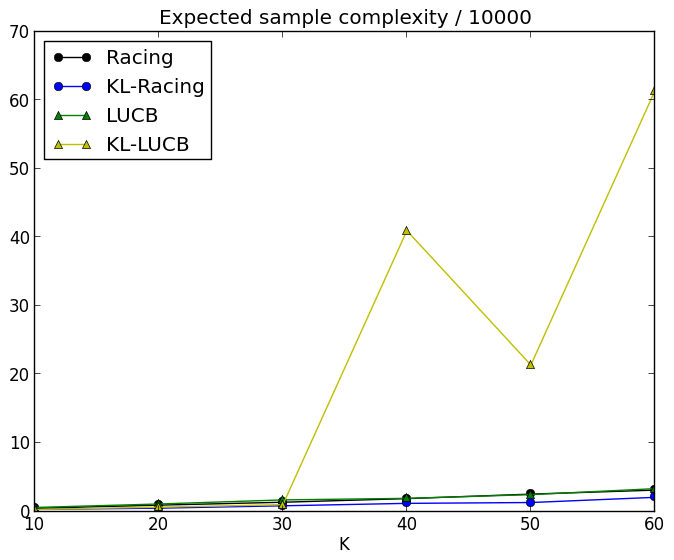
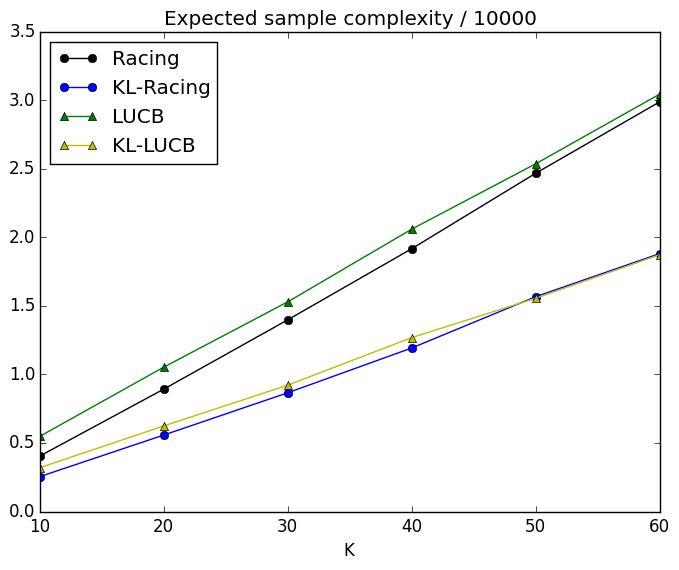
update the current version of flat arm tests

diff --git a/flat_test_pengchuan.py b/flat_test_pengchuan.py
@@ -49,54 +49,55 @@ def test23_LUCB(algo, num_sims, check_points, true_bestarms):
 
 
 
-## test 1
-print "test 1"
-num_sims = 10
-Klist = range(10,61,10)
-horizons_mean_racing = test1(num_sims, Klist, Racing)
-horizons_mean_LUCB = test1(num_sims, Klist, LUCB)
-
-# plot test 1
-fig = plt.figure()
-plt.plot(Klist, horizons_mean_racing[:,0]/10000, 'ko-', label='Racing')
-plt.plot(Klist, horizons_mean_racing[:,1]/10000, 'bo-', label='KL-Racing')
-plt.plot(Klist, horizons_mean_LUCB[:,0]/10000, 'g^-', label='LUCB')
-plt.plot(Klist, horizons_mean_LUCB[:,1]/10000, 'y^-', label='KL-LUCB')
-plt.legend(loc='best')
-plt.title('Expected sample complexity / 10000')
-plt.xlabel('K')
-plt.savefig('figure/flat_test1.png', bbox_inches='tight')
-plt.close(fig)
+# ## test 1
+# print "test 1"
+# num_sims = 1000
+# Klist = range(10,61,10)
+# horizons_mean_racing = test1(num_sims, Klist, Racing)
+# horizons_mean_LUCB = test1(num_sims, Klist, LUCB)
+#
+# # plot test 1
+# fig = plt.figure()
+# plt.plot(Klist, horizons_mean_racing[:,0]/10000, 'ko-', label='Racing')
+# plt.plot(Klist, horizons_mean_racing[:,1]/10000, 'bo-', label='KL-Racing')
+# plt.plot(Klist, horizons_mean_LUCB[:,0]/10000, 'g^-', label='LUCB')
+# plt.plot(Klist, horizons_mean_LUCB[:,1]/10000, 'y^-', label='KL-LUCB')
+# plt.legend(loc='best')
+# plt.title('Expected sample complexity / 10000')
+# plt.xlabel('K')
+# plt.savefig('figure/flat_test1_2.png', bbox_inches='tight')
+# plt.close(fig)
 
 
 
 ## test23
 print "test 23"
-num_sims = 10
-# B1
-print "test 23 for B1"
+num_sims = 1000
 K = 15
 means = np.array([0.5] + map(lambda (a): 0.5-a/40., range(2,K+1)))
 n_arms = len(means)
-arms = map(lambda (mu): BernoulliArm(mu), means)
+true_best_arms = {0, 1, 2}
 
-m = 3
-eps = 0.04
-delta = 0.1
-caseH_racing = Racing(arms, m, eps, delta, beta_racing, Hoeffding)
-caseC_racing = Racing(arms, m, eps, delta, beta_racing, Chernoff)
-caseH_LUCB = LUCB(arms, m, eps, delta, beta_lucb, Hoeffding)
-caseC_LUCB = LUCB(arms, m, eps, delta, beta_lucb, Chernoff)
-checkpoints = np.arange(1000, 7001, 1000)
-true_best_arms = set([0,1,2])
-horizonsH1_racing, checkpointsH1_racing, checkerrorsH1_racing = test23(caseH_racing, num_sims, checkpoints, true_best_arms)
-horizonsC1_racing, checkpointsC1_racing, checkerrorsC1_racing = test23(caseC_racing, num_sims, checkpoints, true_best_arms)
-horizonsH1_LUCB, checkpointsH1_LUCB, checkerrorsH1_LUCB = test23_LUCB(caseH_LUCB, num_sims, checkpoints, true_best_arms)
-horizonsC1_LUCB, checkpointsC1_LUCB, checkerrorsC1_LUCB = test23_LUCB(caseC_LUCB, num_sims, checkpoints, true_best_arms)
-errorrateH1_racing = np.sum(checkerrorsH1_racing, axis=0)/float(num_sims)
-errorrateC1_racing = np.sum(checkerrorsC1_racing, axis=0)/float(num_sims)
-errorrateH1_LUCB = np.sum(checkerrorsH1_LUCB, axis=0)/float(num_sims)
-errorrateC1_LUCB = np.sum(checkerrorsC1_LUCB, axis=0)/float(num_sims)
+# # B1
+# print "test 23 for B1"
+# arms = map(lambda (mu): BernoulliArm(mu), means)
+#
+# m = 3
+# eps = 0.04
+# delta = 0.1
+# caseH_racing = Racing(arms, m, eps, delta, beta_racing, Hoeffding)
+# caseC_racing = Racing(arms, m, eps, delta, beta_racing, Chernoff)
+# caseH_LUCB = LUCB(arms, m, eps, delta, beta_lucb, Hoeffding)
+# caseC_LUCB = LUCB(arms, m, eps, delta, beta_lucb, Chernoff)
+# checkpoints1 = np.arange(1000, 20001, 1000)
+# horizonsH1_racing, checkpointsH1_racing, checkerrorsH1_racing = test23(caseH_racing, num_sims, checkpoints1, true_best_arms)
+# horizonsC1_racing, checkpointsC1_racing, checkerrorsC1_racing = test23(caseC_racing, num_sims, checkpoints1, true_best_arms)
+# horizonsH1_LUCB, checkpointsH1_LUCB, checkerrorsH1_LUCB = test23_LUCB(caseH_LUCB, num_sims, checkpoints1, true_best_arms)
+# horizonsC1_LUCB, checkpointsC1_LUCB, checkerrorsC1_LUCB = test23_LUCB(caseC_LUCB, num_sims, checkpoints1, true_best_arms)
+# errorrateH1_racing = np.sum(checkerrorsH1_racing, axis=0)/float(num_sims)
+# errorrateC1_racing = np.sum(checkerrorsC1_racing, axis=0)/float(num_sims)
+# errorrateH1_LUCB = np.sum(checkerrorsH1_LUCB, axis=0)/float(num_sims)
+# errorrateC1_LUCB = np.sum(checkerrorsC1_LUCB, axis=0)/float(num_sims)
 
 # B2
 print "test 23 for B2"
@@ -110,46 +111,59 @@ caseH_racing = Racing(arms, m, eps, delta, beta_racing, Hoeffding)
 caseC_racing = Racing(arms, m, eps, delta, beta_racing, Chernoff)
 caseH_LUCB = LUCB(arms, m, eps, delta, beta_lucb, Hoeffding)
 caseC_LUCB = LUCB(arms, m, eps, delta, beta_lucb, Chernoff)
-horizonsH2_racing, checkpointsH2_racing, checkerrorsH2_racing = test23(caseH_racing, num_sims, checkpoints, true_best_arms)
-horizonsC2_racing, checkpointsC2_racing, checkerrorsC2_racing = test23(caseC_racing, num_sims, checkpoints, true_best_arms)
-horizonsH2_LUCB, checkpointsH2_LUCB, checkerrorsH2_LUCB = test23_LUCB(caseH_LUCB, num_sims, checkpoints, true_best_arms)
-horizonsC2_LUCB, checkpointsC2_LUCB, checkerrorsC2_LUCB = test23_LUCB(caseC_LUCB, num_sims, checkpoints, true_best_arms)
+checkpoints2 = np.arange(1000, 50001, 1000)
+horizonsH2_racing, checkpointsH2_racing, checkerrorsH2_racing = test23(caseH_racing, num_sims, checkpoints2, true_best_arms)
+horizonsC2_racing, checkpointsC2_racing, checkerrorsC2_racing = test23(caseC_racing, num_sims, checkpoints2, true_best_arms)
+horizonsH2_LUCB, checkpointsH2_LUCB, checkerrorsH2_LUCB = test23_LUCB(caseH_LUCB, num_sims, checkpoints2, true_best_arms)
+horizonsC2_LUCB, checkpointsC2_LUCB, checkerrorsC2_LUCB = test23_LUCB(caseC_LUCB, num_sims, checkpoints2, true_best_arms)
 errorrateH2_racing = np.sum(checkerrorsH2_racing, axis=0)/float(num_sims)
 errorrateC2_racing = np.sum(checkerrorsC2_racing, axis=0)/float(num_sims)
 errorrateH2_LUCB = np.sum(checkerrorsH2_LUCB, axis=0)/float(num_sims)
 errorrateC2_LUCB = np.sum(checkerrorsC2_LUCB, axis=0)/float(num_sims)
 
-# plot test 2
-fig = plt.figure()
-plt.subplot(4, 1, 1)
-plt.hist(horizonsH1_racing/10000, bins=100, range=[2.,22.], normed=True, facecolor='red', align='mid', label='Racing')
-plt.hist(horizonsC1_racing/10000, bins=100, range=[2.,22.], normed=True, facecolor='green', align='mid', label='KL-Racing')
-plt.legend(loc='best')
-plt.title('Fraction of runs (in bins of width 1000)')
-plt.subplot(4, 1, 2)
-plt.hist(horizonsH2_racing/10000, bins=100, range=[2.,22.], normed=True, facecolor='red', align='mid', label='Racing')
-plt.hist(horizonsC2_racing/10000, bins=100, range=[2.,22.], normed=True, facecolor='green', align='mid', label='KL-Racing')
-plt.legend(loc='best')
-plt.subplot(4, 1, 3)
-plt.hist(horizonsH1_LUCB/10000, bins=100, range=[2.,22.], normed=True, facecolor='yellow', align='mid', label='LUCB')
-plt.hist(horizonsC1_LUCB/10000, bins=100, range=[2.,22.], normed=True, facecolor='blue', align='mid', label='KL-LUCB')
-plt.legend(loc='best')
-plt.subplot(4, 1, 4)
-plt.hist(horizonsH2_LUCB/10000, bins=100, range=[2.,22.], normed=True, facecolor='yellow', align='mid', label='LUCB')
-plt.hist(horizonsC2_LUCB/10000, bins=100, range=[2.,22.], normed=True, facecolor='blue', align='mid', label='KL-LUCB')
-plt.legend(loc='best')
-plt.xlabel('Samples / 10000')
-plt.savefig('figure/flat_test2.png', bbox_inches='tight')
-plt.close(fig)
+# # plot test 2
+# fig = plt.figure()
+# plt.subplot(4, 1, 1)
+# plt.hist(horizonsH1_racing/10000, bins=100, range=[2.,22.], normed=True, facecolor='red', align='mid', label='Racing')
+# plt.hist(horizonsC1_racing/10000, bins=100, range=[2.,22.], normed=True, facecolor='green', align='mid', label='KL-Racing')
+# plt.legend(loc='best')
+# plt.title('Fraction of runs (in bins of width 1000)')
+# plt.subplot(4, 1, 2)
+# plt.hist(horizonsH2_racing/10000, bins=100, range=[2.,22.], normed=True, facecolor='red', align='mid', label='Racing')
+# plt.hist(horizonsC2_racing/10000, bins=100, range=[2.,22.], normed=True, facecolor='green', align='mid', label='KL-Racing')
+# plt.legend(loc='best')
+# plt.subplot(4, 1, 3)
+# plt.hist(horizonsH1_LUCB/10000, bins=100, range=[2.,22.], normed=True, facecolor='yellow', align='mid', label='LUCB')
+# plt.hist(horizonsC1_LUCB/10000, bins=100, range=[2.,22.], normed=True, facecolor='blue', align='mid', label='KL-LUCB')
+# plt.legend(loc='best')
+# plt.subplot(4, 1, 4)
+# plt.hist(horizonsH2_LUCB/10000, bins=100, range=[2.,22.], normed=True, facecolor='yellow', align='mid', label='LUCB')
+# plt.hist(horizonsC2_LUCB/10000, bins=100, range=[2.,22.], normed=True, facecolor='blue', align='mid', label='KL-LUCB')
+# plt.legend(loc='best')
+# plt.xlabel('Samples / 10000')
+# plt.savefig('figure/flat_test2.png', bbox_inches='tight')
+# plt.close(fig)
 
-# plot test 3
+# # plot test 3 for B_1
+# fig = plt.figure()
+# plt.plot(checkpoints1/1000, errorrateH1_racing, 'ko-', label='Racing')
+# plt.plot(checkpoints1/1000, errorrateC1_racing, 'bo-', label='KL-Racing')
+# plt.plot(checkpoints1/1000, errorrateH1_LUCB, 'g^-', label='LUCB')
+# plt.plot(checkpoints1/1000, errorrateC1_LUCB, 'y^-', label='KL-LUCB')
+# plt.legend(loc='best')
+# plt.title('Empirical mistake probability during run')
+# plt.xlabel('Samples / 1000')
+# plt.savefig('figure/flat_test3_B1.png', bbox_inches='tight')
+# plt.close(fig)
+
+# plot test 3 for B_2
 fig = plt.figure()
-plt.plot(checkpoints/1000, errorrateH1_racing, 'ko-', label='Racing')
-plt.plot(checkpoints/1000, errorrateC1_racing, 'bo-', label='KL-Racing')
-plt.plot(checkpoints/1000, errorrateH1_LUCB, 'g^-', label='LUCB')
-plt.plot(checkpoints/1000, errorrateC1_LUCB, 'y^-', label='KL-LUCB')
+plt.plot(checkpoints2/1000, errorrateH2_racing, 'ko-', label='Racing')
+plt.plot(checkpoints2/1000, errorrateC2_racing, 'bo-', label='KL-Racing')
+plt.plot(checkpoints2/1000, errorrateH2_LUCB, 'g^-', label='LUCB')
+plt.plot(checkpoints2/1000, errorrateC2_LUCB, 'y^-', label='KL-LUCB')
 plt.legend(loc='best')
 plt.title('Empirical mistake probability during run')
 plt.xlabel('Samples / 1000')
-plt.savefig('figure/flat_test3.png', bbox_inches='tight')
+plt.savefig('figure/flat_test3_B2.png', bbox_inches='tight')
 plt.close(fig)

diff --git a/algorithms/racing/racing.py b/algorithms/racing/racing.py
@@ -81,14 +81,22 @@ class Racing(object):
         arm_B = arms_remain[np.argmax(vals_remain)]
         arm_W = arms_remain[np.argmin(vals_remain)]
         # try to select or discard
-        # we use a = argmin_{a_B, a_W} (Uut-self.lowers[arm_B], self.uppers[arm_W]-Llt) instead of max
         if Uut-self.lowers[arm_B] < self.eps or self.uppers[arm_W]-Llt < self.eps:
+            # we use a = argmin_{a_B, a_W} (Uut-self.lowers[arm_B], self.uppers[arm_W]-Llt)
             if Uut-self.lowers[arm_B] <= self.uppers[arm_W]-Llt:
                 self.remain.remove(arm_B)
                 self.select.add(arm_B)
             else:
                 self.remain.remove(arm_W)
                 self.discard.add(arm_W)
+            # what is suggested in Kaufmann-Kalyanakrishnan-14 paper
+            # if (Uut-self.lowers[arm_B])*(Uut-self.lowers[arm_B]<self.eps) >= \
+            #         (self.uppers[arm_W]-Llt)*(self.uppers[arm_W]-Llt<self.eps):
+            #     self.remain.remove(arm_B)
+            #     self.select.add(arm_B)
+            # else:
+            #     self.remain.remove(arm_W)
+            #     self.discard.add(arm_W)
         # increase number of arms drawed and t
         self.N += len(rewards)
         self.t += 1

diff --git a/testing_framework/tests_for_PE.py b/testing_framework/tests_for_PE.py
@@ -13,6 +13,6 @@ def test23(algo, num_sims, checkPoints, trueBestArms):
         algo.run_with_check()
         horizons[sim] = algo.N
         checkpoints[sim] = algo.checkpoints
-        checkerrors[sim] = algo.checkerrors
+        checkerrors[sim] = algo.checkerrors + [algo.checkerrors[-1]]*(num_points-len(algo.checkerrors))
 
     return horizons, checkpoints, checkerrors

diff --git a/algorithms/LUCB/LUCB.py b/algorithms/LUCB/LUCB.py
@@ -98,6 +98,7 @@ class LUCB():
                         break
                 self.checkerrors[id] = set(self.mbest) != self.true_best_arms
                 if flag == False:
+                    self.checkerrors[id:] = self.checkerrors[id]
                     break
             while(flag == True):
                 for arm_id, arm in enumerate(self.sample_arms):
